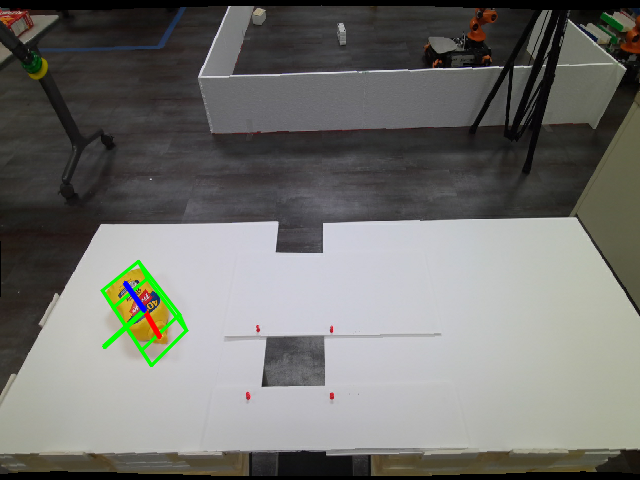
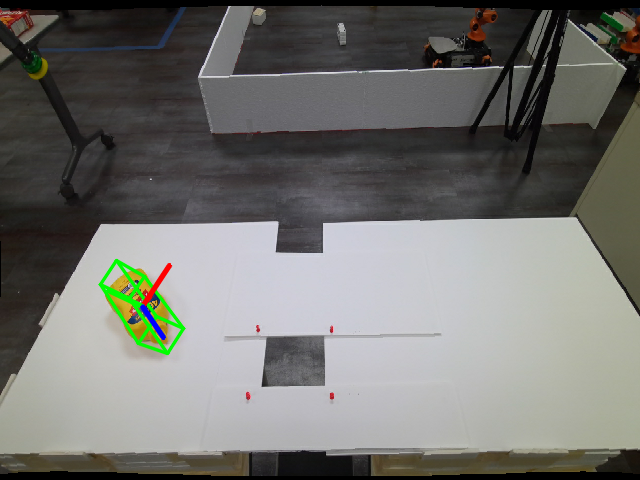
Change to the default pose (without applying to_origin). In this case, the object frame will be the same as the one used during scanning, since the scanner frame may not coincide with the object frame.

Changed region(s): [[0.1562, 0.5312, 0.3125, 0.7812]]

diff --git a/run_single_demo.py b/run_single_demo.py
@@ -52,8 +52,8 @@ if __name__ == '__main__':
     color = cv2.resize(color, (W, H), interpolation=cv2.INTER_NEAREST)
 
     plot_img = copy.deepcopy(color)
-    cv2.imshow('Initial RGB image', color[..., ::-1])
-    cv2.waitKey(0)
+    # cv2.imshow('Initial RGB image', color[..., ::-1])
+    # cv2.waitKey(0)
 
     depth = cv2.imread(args.depth_path, -1) / 1e3  # mm→m
     depth = cv2.resize(depth, (W, H), interpolation=cv2.INTER_NEAREST)
@@ -75,8 +75,10 @@ if __name__ == '__main__':
     # logging.info("Pose estimation complete, saved to pose_result.txt")
 
     # === 可视化结果 ===
-    center_pose = pose @ np.linalg.inv(to_origin)
-
+    # center_pose = pose @ np.linalg.inv(to_origin)
+    # Directly use the estimated pose without to_origin. 
+    # This is because the to_origin transformation may not be accurate for some objects.
+    center_pose = pose
     vis = draw_posed_3d_box(K, img=plot_img, ob_in_cam=center_pose, bbox=bbox)
     vis = draw_xyz_axis(vis, ob_in_cam=center_pose, scale=0.1, K=K, thickness=3, transparency=0, is_input_rgb=True)
     cv2.imshow('Pose Estimation', vis[..., ::-1])

diff --git a/single_data/viz_transformation.py b/single_data/viz_transformation.py
@@ -1,0 +1,15 @@
+import numpy as np
+import open3d as o3d
+
+pcd = o3d.io.read_point_cloud("./results/pcd.pcd")
+
+# F_o: object frame
+# F_c: camera frame
+# pose: transformation from F_c to F_o
+pose = np.loadtxt("./results/pose_result.txt")
+
+camera_frame = o3d.geometry.TriangleMesh.create_coordinate_frame(size = 0.5)
+
+obj_frame = o3d.geometry.TriangleMesh.create_coordinate_frame(size = 0.2)
+obj_frame.transform(pose)
+o3d.visualization.draw_geometries([pcd, camera_frame, obj_frame])
